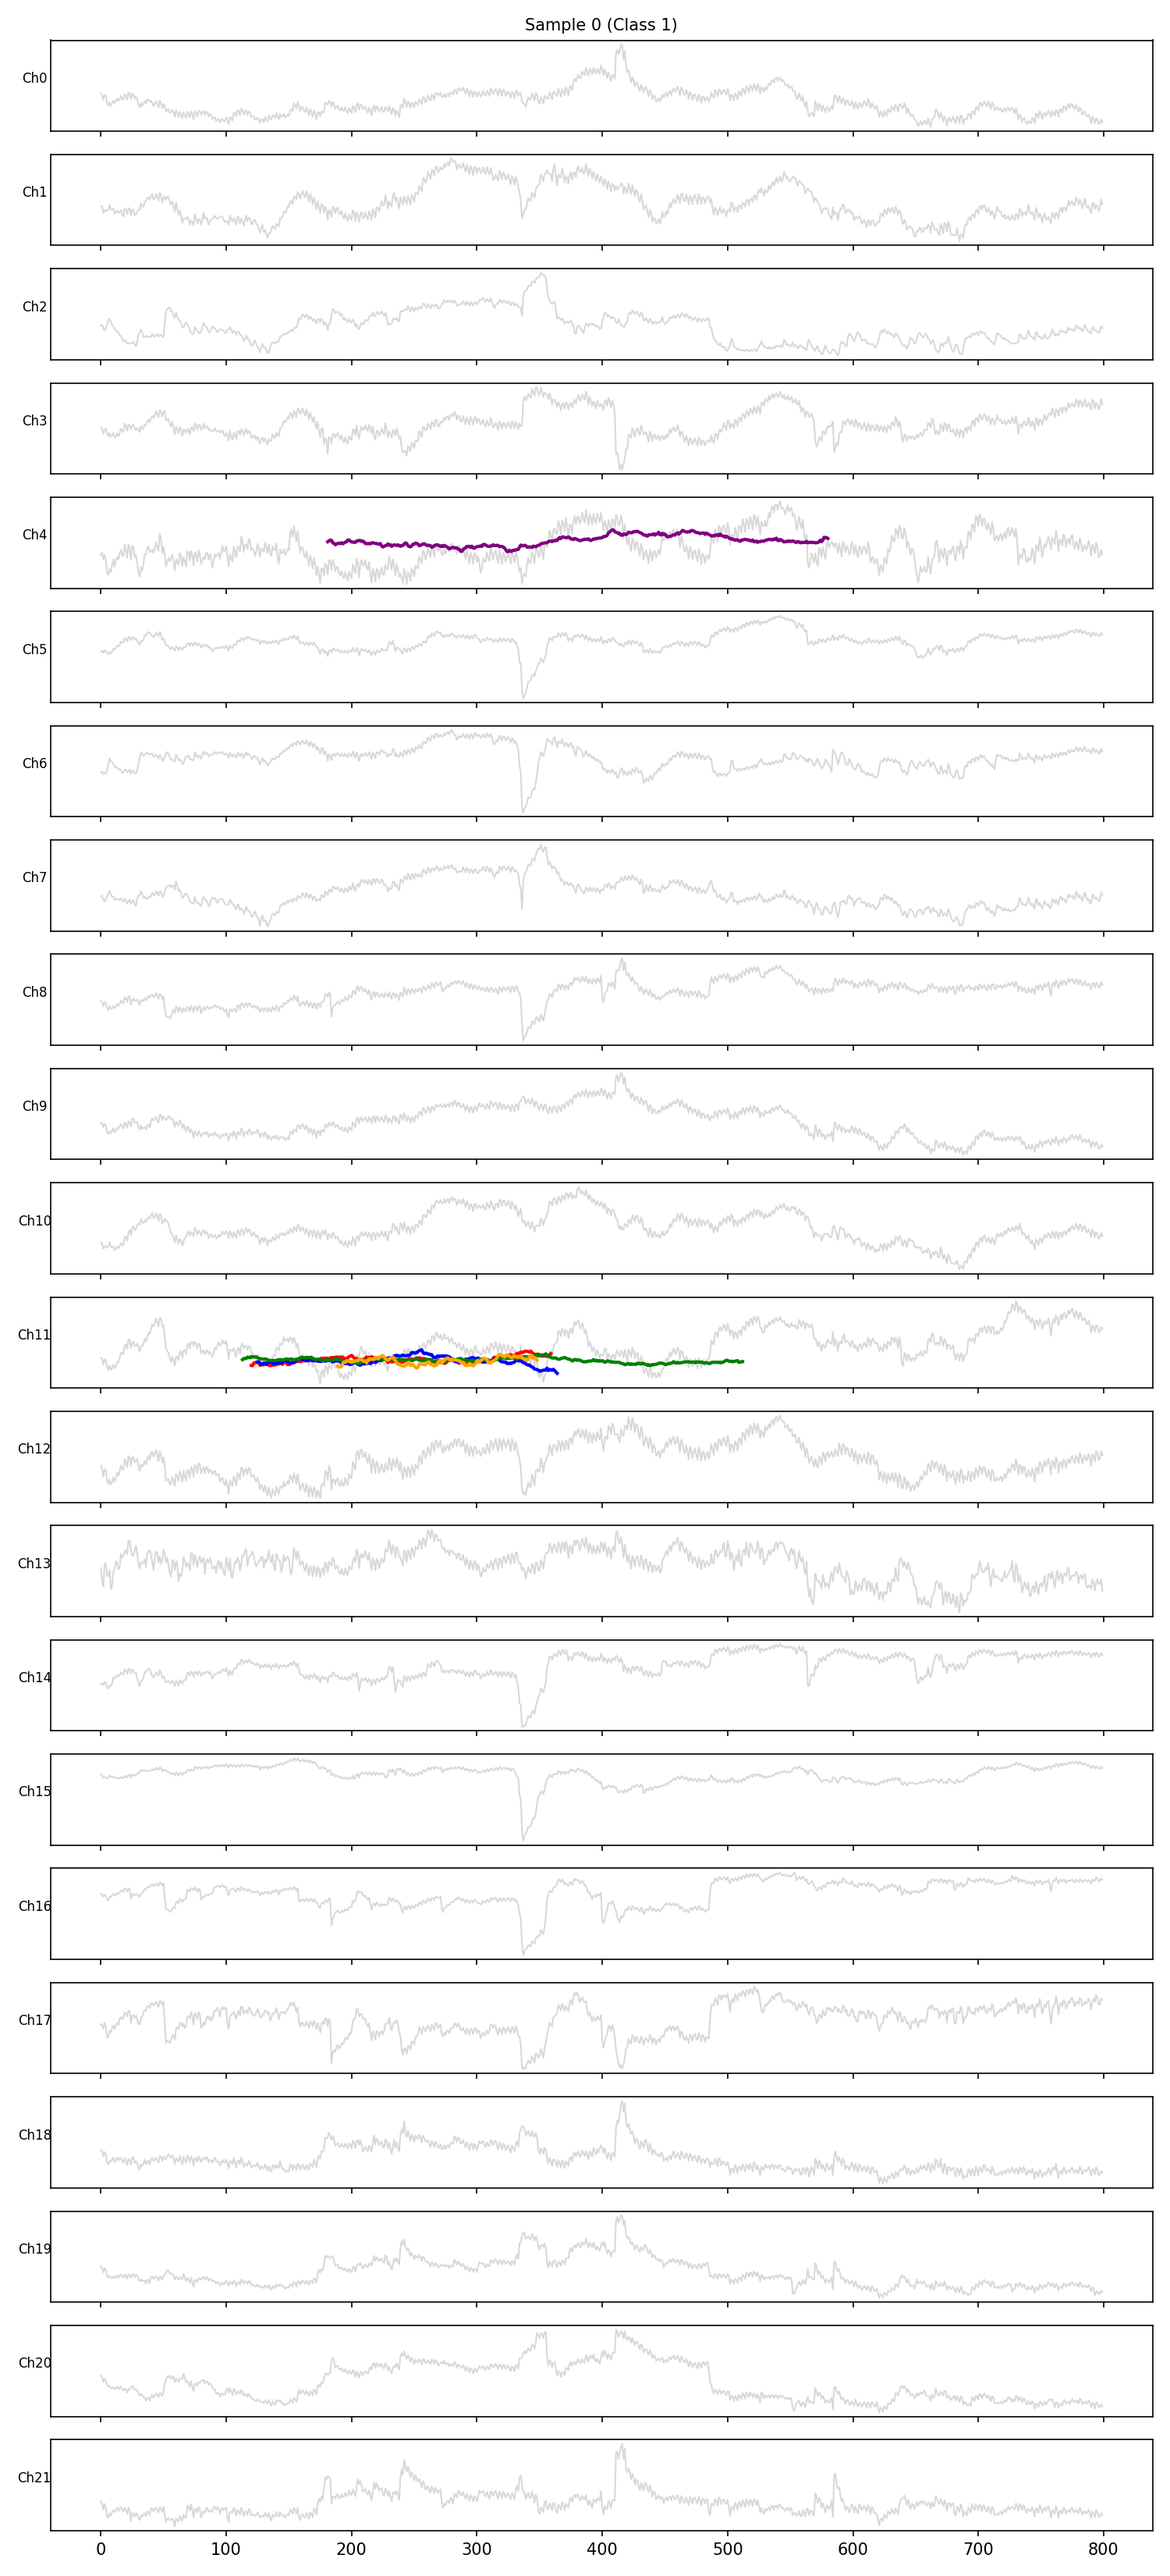
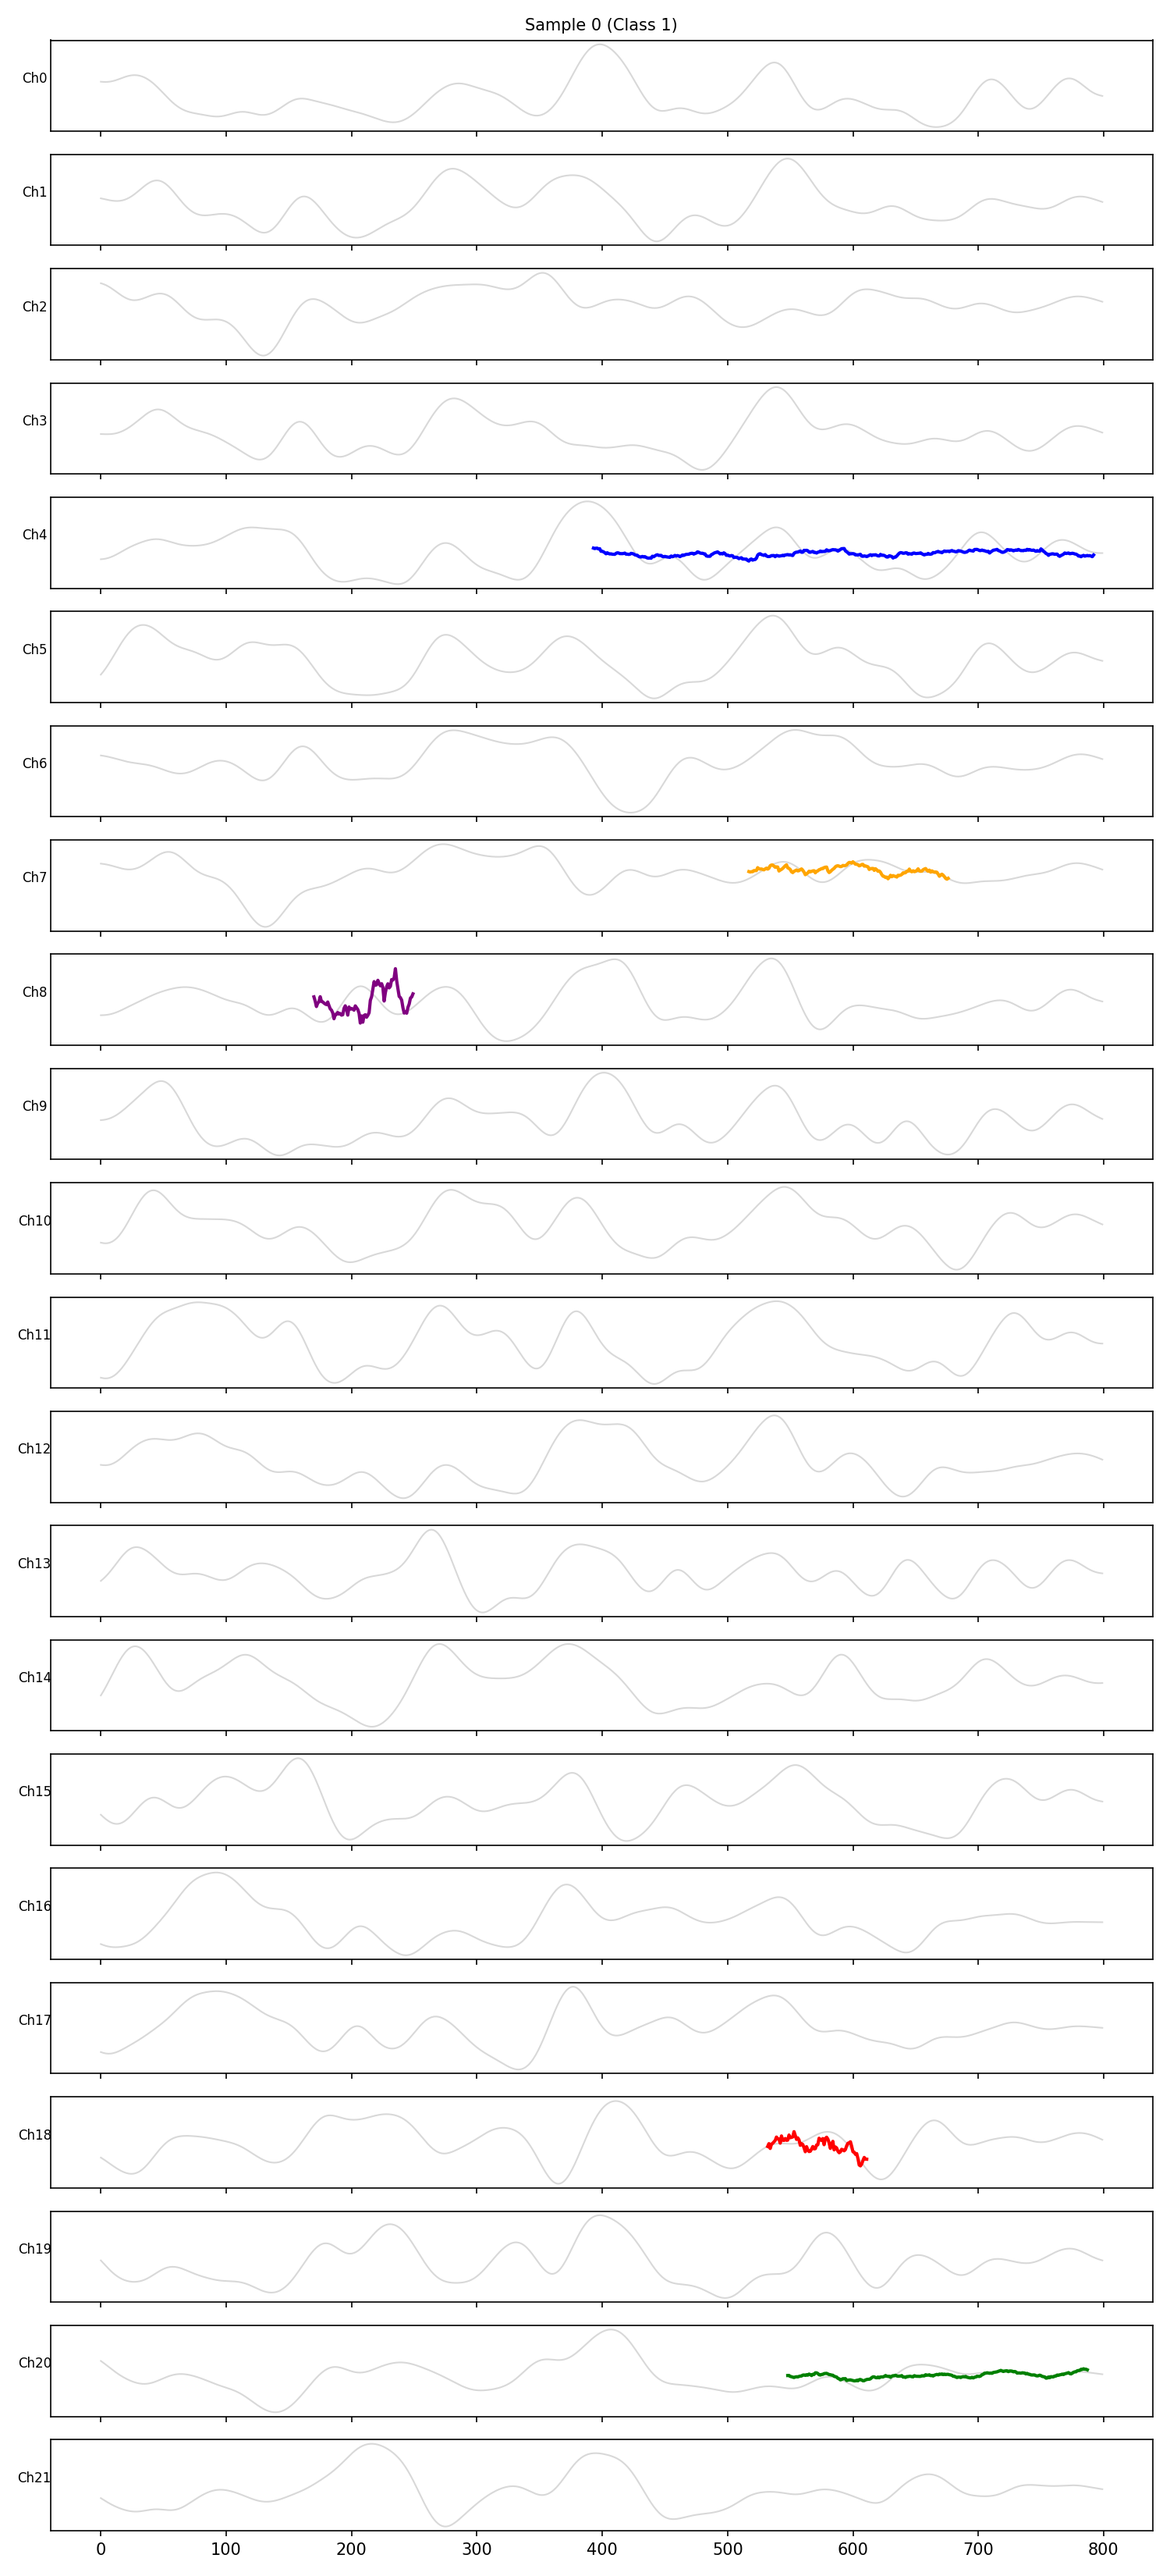
VFT数据集更换了一个处理过的版本1

diff --git a/run_vis.py b/run_vis.py
@@ -249,14 +249,14 @@ if __name__ == '__main__':
     config = {
         # 数据路径 (必须包含 ADHD 文件夹的上一级，或者直接指向 ADHD 文件夹，取决于 dataloader 实现)
         # 根据 user prompt: '../TSCModel/RankSCL/RankSCL/ADHD'
-        'data_path': '../TSCModel/RankSCL/RankSCL/ADHD',
-        'fold_num': 4,  # 默认 fold
+        'data_path': '../Dual_Gate_Model/data',
+        'fold_num': 0,  # 默认 fold
 
         # 模型参数
         'in_channels': 22,  # ADHD 通道数
         'seq_length': 800,  # 序列长度
         'num_classes': 2,  # 类别数
-        'num_shapelet': [5, 5, 5, 5],
+        'num_shapelet': [2, 2, 2, 2],
         'shapelet_len': [0.1, 0.2, 0.3, 0.5],
 
         'model_path': 'best_model.pth',

diff --git a/main.py b/main.py
@@ -26,7 +26,7 @@ from sklearn.metrics import precision_recall_fscore_support, cohen_kappa_score
 logging.basicConfig(level=logging.INFO, format='%(asctime)s - %(levelname)s - %(message)s')
 
 parser = argparse.ArgumentParser()
-parser.add_argument('--fold_num', default=4, type=int)
+parser.add_argument('--fold_num', default=0, type=int)
 
 #VFT和REST任务
 parser.add_argument('--data_path', default='../Dual_Gate_Model/data')
